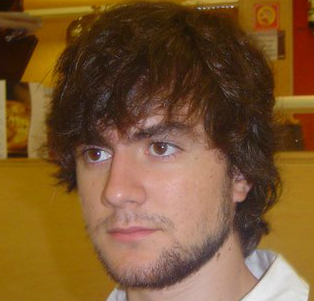
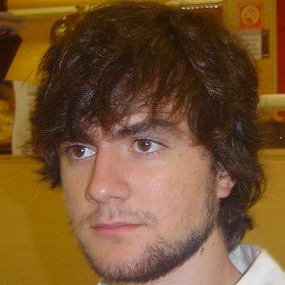
modificaçoes

diff --git a/index.html b/index.html
@@ -150,7 +150,7 @@
 						<i class="fa fa-file-text-o"></i>
 					</a>
 					<br><br>
-					<p class="light about-text">O Personal Trainer poderá gerir e partilhar os seus planos de treino\nutricionais aos seus alunos.</p>
+					<p class="light about-text">O Personal Trainer poderá gerir e partilhar os seus planos de treino\nutricionais dos seus alunos.</p>
 				</div>
 
 				<div class="col-xs-3 col-sm-6 col-md-3 about-box animated" data-animation="fadeIn" data-animation-delay="500">
@@ -269,7 +269,7 @@
 					<!-- Header -->
 					<p class="feature-head">Aplicações Externas</p>
 					<!-- Text -->
-					<p class="feature-text light"> Interecção automática com várias aplicações externas relacionadas com dispositivos de restreamento inteligente.	</p>
+					<p class="feature-text light"> Interecção automática com várias aplicações externas relacionadas com dispositivos de rastreamento inteligente.	</p>
 				</div>
 
 				
@@ -306,7 +306,7 @@
 						<!-- Team Member Image -->
 						<a class="team-image">
 							<!-- Img -->
-							<img style="width:184px; height:184px;" class="membros" src="images/membros/nico.jpg" alt="" />
+							<img style="width:50%; height:100%;"  class="membros" src="images/membros/nico.jpg" alt="" />
 						</a>
 						<div class="member-details">
 							<div class="member-details-inner">
@@ -331,7 +331,7 @@
 						<!-- Team Member Image -->
 						<a class="team-image">
 							<!-- Img -->
-							<img style="width:184px; height:184px;" class="membros" src="images/membros/nuno.jpg" alt="" />
+							<img style="width:50%; height:100%;"  class="membros" src="images/membros/nuno.jpg" alt="" />
 						</a>
 						<div class="member-details">
 							<div class="member-details-inner">
@@ -356,7 +356,7 @@
 						<!-- Team Member Image -->
 						<a class="team-image">
 							<!-- Img -->
-							<img style="width:184px; height:184px;" class="membros" src="images/membros/sergio.jpg" alt="" />
+							<img style="width:50%; height:100%;"  class="membros" src="images/membros/sergio.jpg" alt="" />
 						</a>
 						<div class="member-details">
 							<div class="member-details-inner">
@@ -380,7 +380,7 @@
 						<!-- Team Member Image -->
 						<a class="team-image">
 							<!-- Img -->
-							<img style="width:184px; height:184px;" class="membros" src="images/membros/euzinho.jpg" alt="" />
+							<img style="width:50%; height:100%;"  class="membros" src="images/membros/euzinho.jpg" alt="" />
 						</a>
 						<div class="member-details">
 							<div class="member-details-inner">
@@ -404,7 +404,7 @@
 						<!-- Team Member Image -->
 						<a class="team-image">
 							<!-- Img -->
-							<img style="width:184px; height:184px;" class="membros" src="images/membros/montana.jpg" alt="" />
+							<img style="width:50%; height:100%;"  class="membros" src="images/membros/montana.jpg" alt="" />
 						</a>
 						<div class="member-details">
 							<div class="member-details-inner">
@@ -428,7 +428,7 @@
 						<!-- Team Member Image -->
 						<a class="team-image">
 							<!-- Img -->
-							<img style="width:184px; height:184px;" class="membros" src="images/membros/emanuel.jpg" alt="" />
+							<img style="width:50%; height:100%;" class="membros" src="images/membros/emanuel.jpg" alt="" />
 						</a>
 						<div class="member-details">
 							<div class="member-details-inner">
@@ -478,7 +478,7 @@
 						<!-- Team Member Image -->
 						<a class="team-image">
 							<!-- Img -->
-							<img style="width:184px; height:184px;" class="membros" src="images/membros/champ.jpg" alt="" />
+							<img style="width:50%; height:100%;"  class="membros" src="images/membros/champ.jpg" alt="" />
 						</a>
 						<div class="member-details">
 							<div class="member-details-inner">
@@ -502,7 +502,7 @@
 						<!-- Team Member Image -->
 						<a class="team-image">
 							<!-- Img -->
-							<img style="width:184px; height:184px;" class="membros" src="images/membros/duarte.jpg" alt="" />
+							<img style="width:50%; height:100%;"  class="membros" src="images/membros/duarte.jpg" alt="" />
 						</a>
 						<div class="member-details">
 							<div class="member-details-inner">
@@ -535,11 +535,26 @@
 			  <!-- Indicators -->
 			  <ol class="carousel-indicators">
 			    <li data-target="#carousel-example-generic" data-slide-to="0" class="active"></li>
+			    <li data-target="#carousel-example-generic" data-slide-to="1"></li>
 			  </ol>
 
 			  <!-- Wrapper for slides -->
 			  <div class="carousel-inner">
 			    <div class="item active">
+			    	<ul>
+				     <li class="monial">
+						<!-- Text -->
+						<h1 class="condensed white">"É <span class="colored">difícil</span> organizar-me quando uso 4 aplicações para <span class="colored"> interagir com os meus clientes</span>."</h1>
+						<!-- Name -->
+						<p class="light">
+							Aparício Silva
+							<br>
+							<span style="font-size:12px;">Proprietário do GymnoPrado e Personal Trainer</span>
+						</p>
+					</li>
+					</ul>
+			    </div>
+			    <div class="item">
 			      <ul>
 			      <li class="monial">
 						<!-- Text -->
@@ -657,6 +672,9 @@
 					<i class="fa fa-google-plus"></i>
 				</a>                
 			</div>
+			<a href="#home" class="scroll top-button">
+					<i class="fa fa-arrow-circle-up fa-2x"></i>
+			</a>
 			<!-- Adress, Mail -->
 			<div class="address socials animated" data-animation="fadeInRight" data-animation-delay="500">
 				<!-- Phone Number, Mail -->
@@ -664,9 +682,6 @@
 					<br>Email : <a href="mailto:info@Focus.com" class="colored">info@Focus.com</a> 
 					<br>Morada: R. da Universidade, 4704-553 Braga</p>
 				<!-- Top Button -->
-				<a href="#home" class="scroll top-button">
-					<i class="fa fa-arrow-circle-up fa-2x"></i>
-				</a>
 			</div><!-- End Adress, Mail -->
 		</div><!-- End Inner -->
 	</section><!-- End Site Socials and Address -->

diff --git a/css/style.css b/css/style.css
@@ -996,12 +996,12 @@ License URI:http://www.gnu.org/licenses/gpl-2.0.html
 
 	.inner-details .member-details{
 		position: absolute;
-		width: 54%;
+		width: 50%;
 		left:0;
 		height: 100%;
 		padding:15px;
 		bottom:100%;
-		margin-left: 23%;
+		margin-left: 25%;
 		z-index: 3;
 		opacity:0.7;
 		background:#b32d00;
@@ -1332,7 +1332,6 @@ License URI:http://www.gnu.org/licenses/gpl-2.0.html
 		display: inline-block;
 		width:40px;
 		height: 40px;
-		background:#333;
 		color:#b32d00 !important;
 		font-size: 20px;
 		line-height: 38px;

diff --git a/README.md b/README.md
@@ -1,1 +1,1 @@
-# Focus
+# Fitness- One Page Responsive Template
